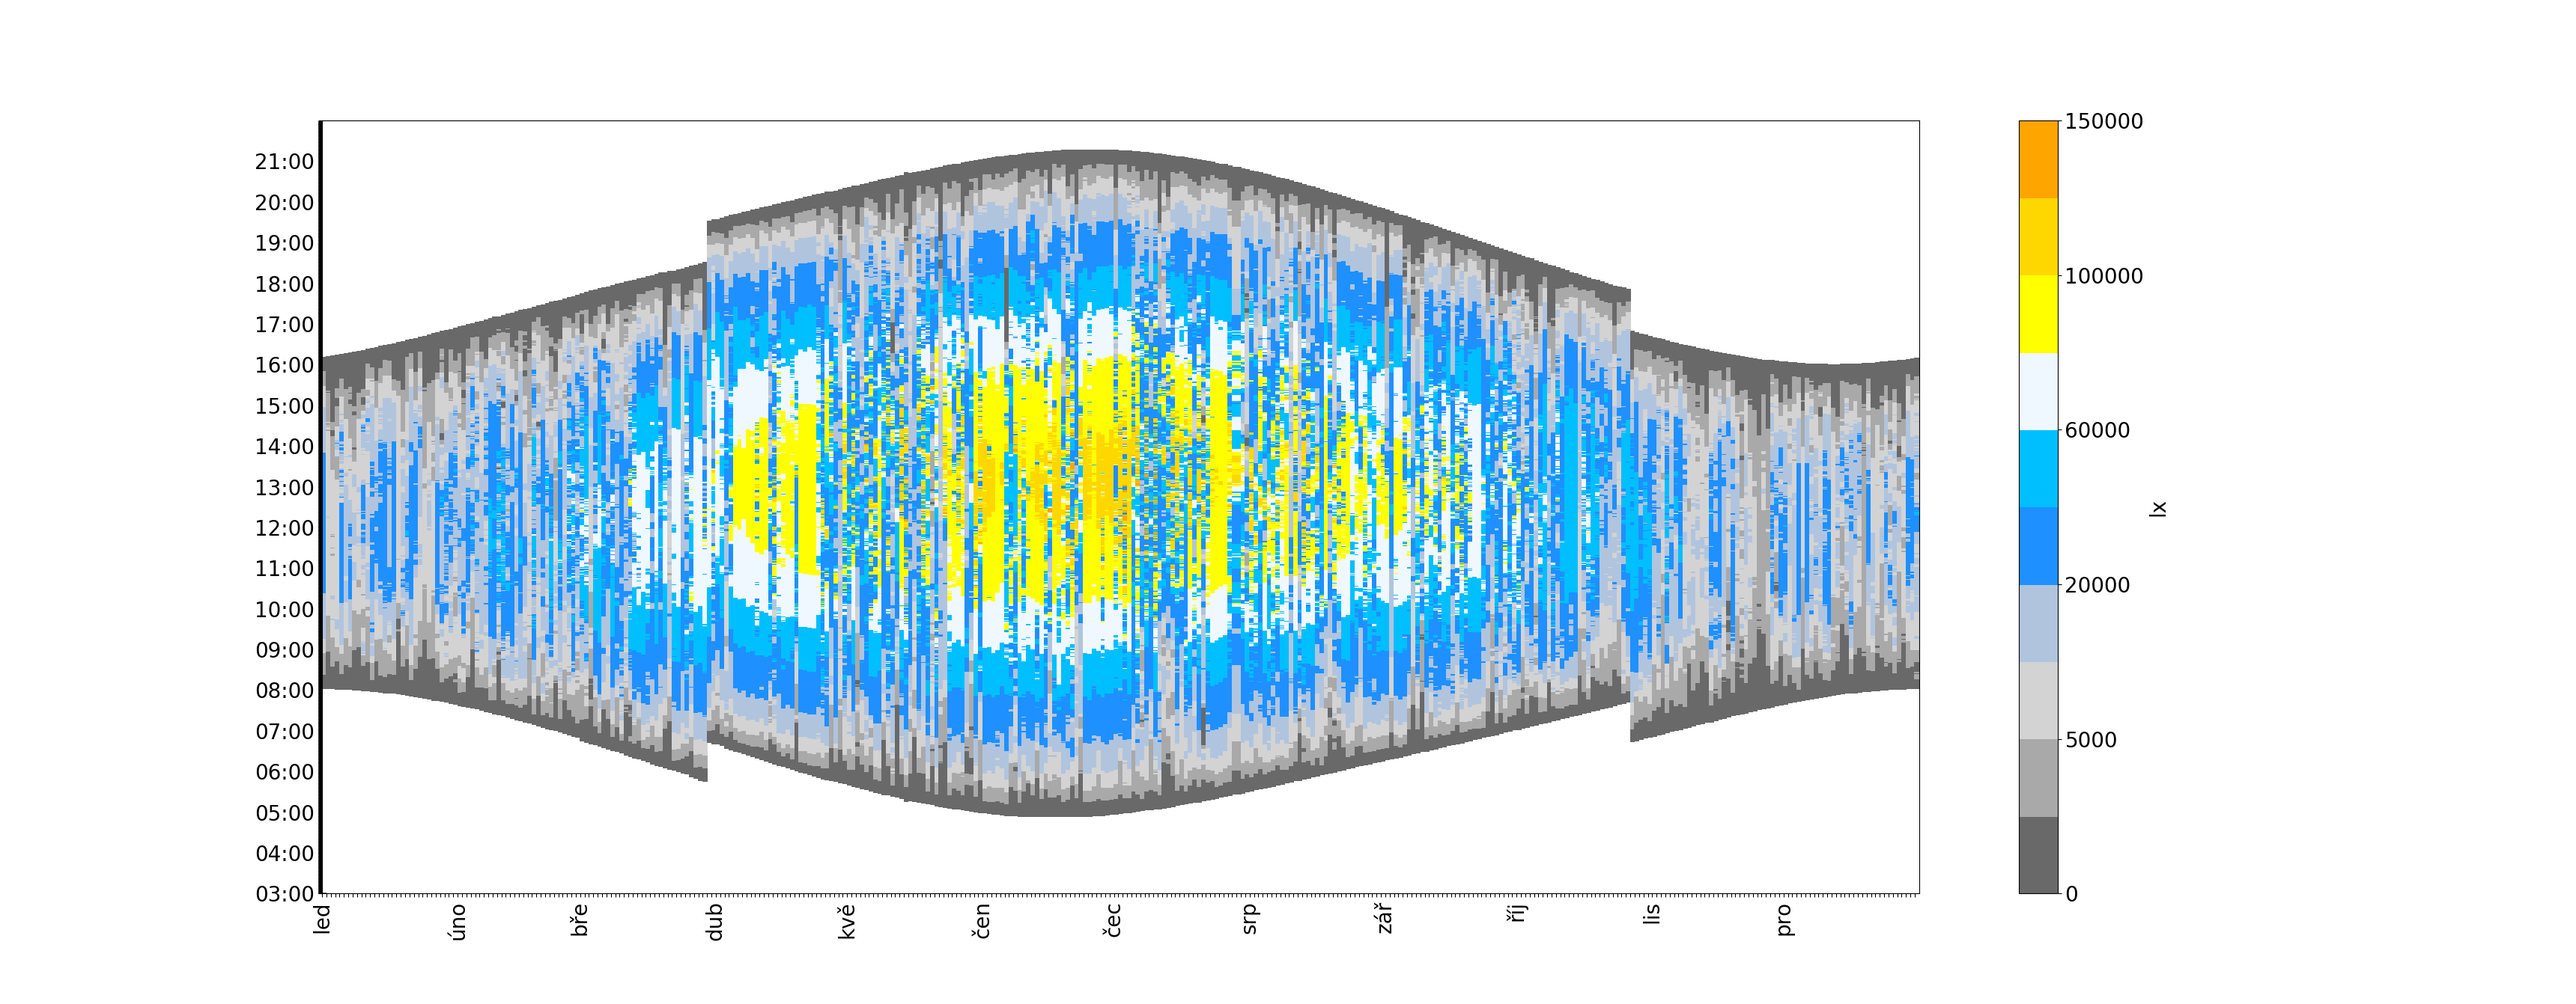
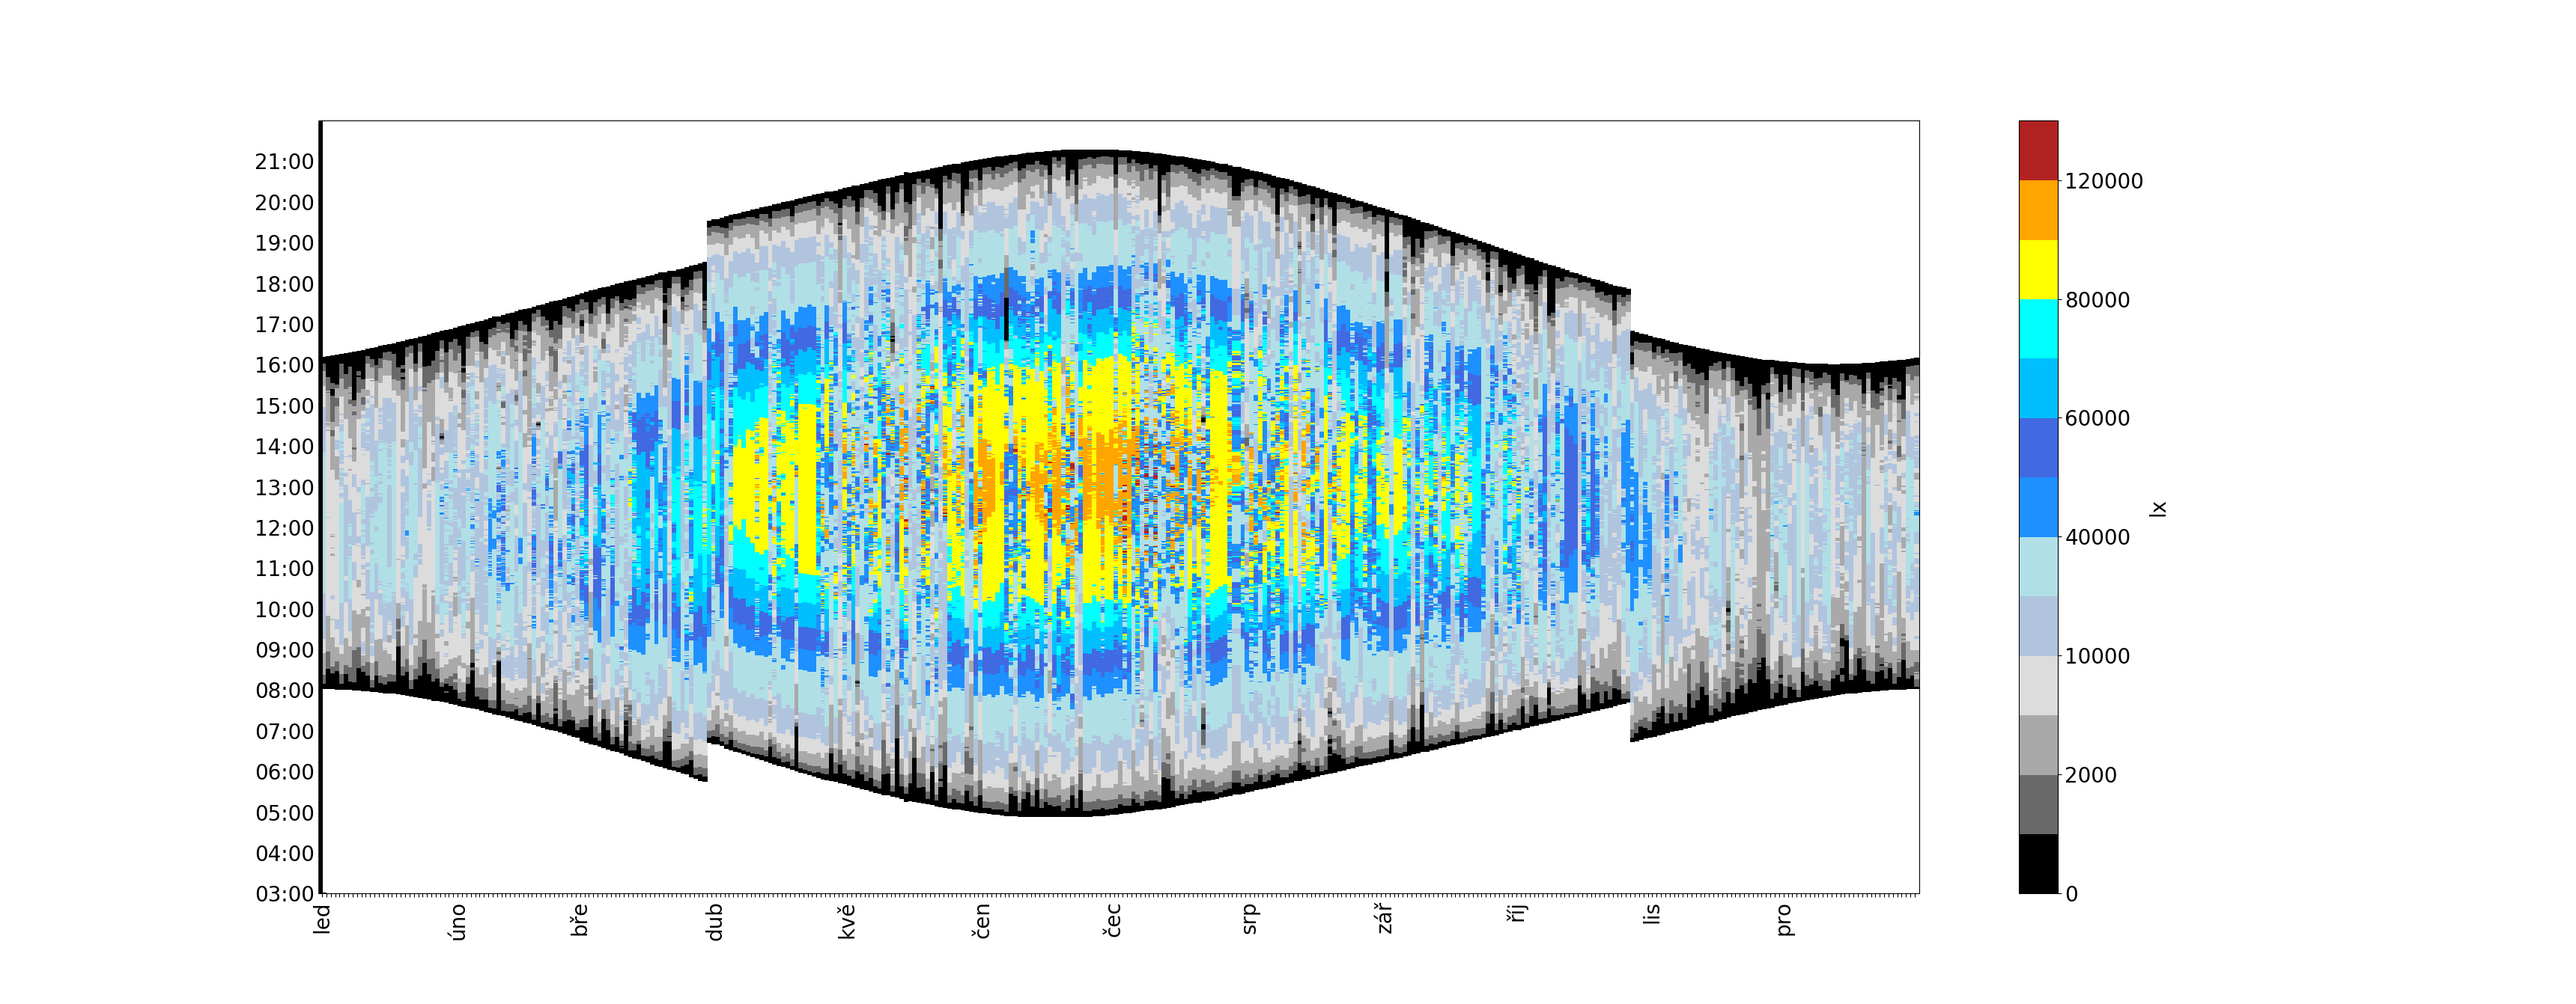
More detailed cusotm colors

diff --git a/median_19_exterier_cvs_quantized.py b/median_19_exterier_cvs_quantized.py
@@ -39,8 +39,8 @@ print(df2)
 fig, ax = plt.subplots()
 
 from matplotlib import colors
-cmap = colors.ListedColormap(['dimgray', 'darkgrey', 'lightgray', 'lightsteelblue', 'dodgerblue', 'deepskyblue', 'aliceblue', 'yellow', 'gold', 'orange'])
-bounds=[0, 2000, 5000, 10000, 20000, 40000, 60000, 80000, 100000, 120000, 150000]
+cmap = colors.ListedColormap(['black', 'dimgray', 'darkgrey', 'gainsboro', 'lightsteelblue', 'powderblue', 'dodgerblue', 'royalblue', 'deepskyblue', 'cyan', 'yellow', 'orange', 'firebrick'])
+bounds=[0, 1000, 2000, 5000, 10000, 20000, 40000, 50000, 60000, 70000, 80000, 100000, 120000, 150000]
 norm = colors.BoundaryNorm(bounds, cmap.N)
 im = ax.pcolor(df2, cmap=cmap, norm=norm)
 
